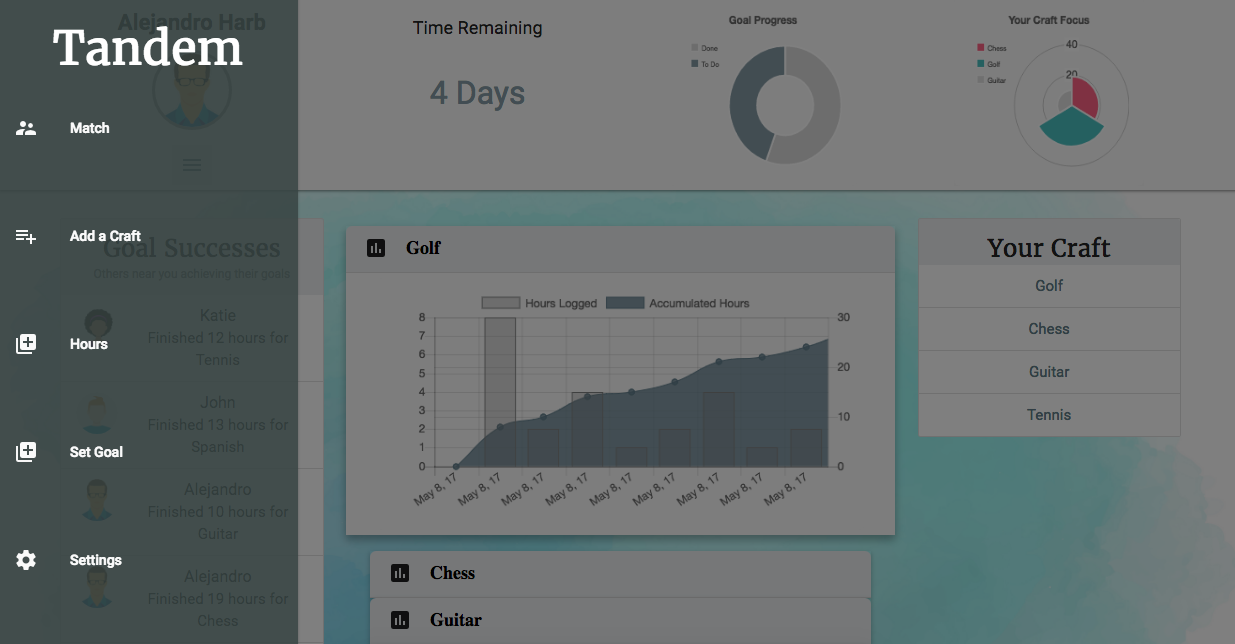
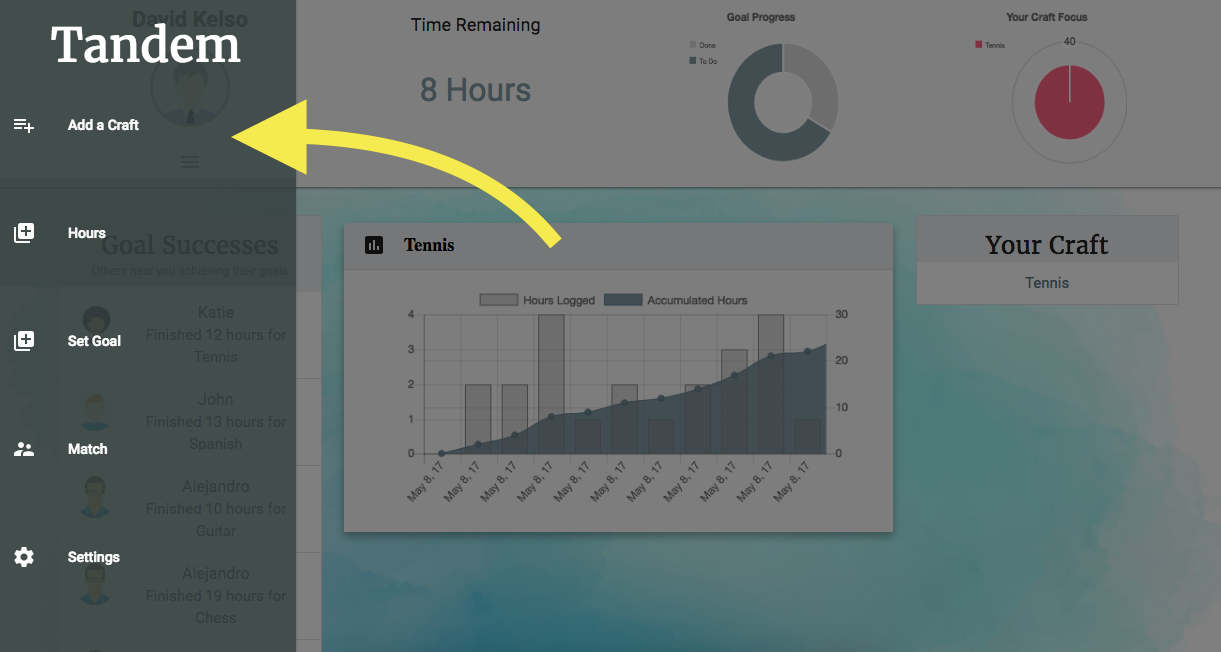
improved instructional UI, set-goal modal UI, and fixed set-craft bug

diff --git a/public/assets/js/controller.js b/public/assets/js/controller.js
@@ -26,17 +26,18 @@ let display_Craft_Add_Modal = (craft) => {
 
 }
 
-let handle_Add_Craft_Submit = (e) => {
+let handle_Add_Craft_Submit = (e, craft) => {
     e.preventDefault();
     //collect data
-    
+
     let years = parseInt($('#YearsExperience').val());
     let rating = parseInt($('input[name="rating"]:checked').val());
-    let craft = $('#craft').val();
+    // let craft = $('#craft').val();
     let clientPostData = {
         year_experience: years,
         experience_rating: rating
     }
+
     let url = '/api/home/choices/' + craft + '/' + user;
     //AJAX POST
     $.post(url, clientPostData, function (response) {
@@ -312,25 +313,49 @@ let create_Goal_Modal = (craft) => {
   });
 }
 
-let set_goal = (e) => {
+let set_goal = (e, craft) => {
   e.preventDefault();
-
+  let now = moment(new Date).format();
+  console.log("right now: " + now);
+  var date;
   let goalDate = moment($('#goalDate').val()).format();
+  let dateRadio = $('input[name="deadline"]:checked').val();
   let goalHours = $('#goalHours').val();
-  let craft = $('#craft').val();
-  let data = {
-    date: goalDate,
-    hours: goalHours,
-    craft: craft
+  let goalCraft = craft;
+  console.log(goalDate + " and radio: " + dateRadio);
+  if(goalDate !== 'Invalid date' || dateRadio !== undefined) {
+    if(dateRadio) {
+      if(dateRadio == '1-day'){
+        date = moment(now).add(1,'days').format();
+        console.log(date);
+      } else {
+        date = moment(now).add(7,'days').format();
+        console.log(date);
+      }
+    }
+    if(goalDate) {
+      date = goalDate;
+    }
+    
+    let data = {
+      date: date,
+      hours: goalHours,
+      craft: goalCraft
+    }
+    console.log(data)
+    //send ajax request to server
+    $.ajax({
+      method: 'PUT',
+      url: '/api/crafts/set-goal/' + craft + '/' + user,
+      data:data
+    }).then( () => {
+      Materialize.toast("Saved", 3000, 'themeToast');
+      displayStats(craft);
+    });
+  } else {
+    alert("Oop! You forgot to enter a deadline.")
   }
-  $.ajax({
-    method: 'PUT',
-    url: '/api/crafts/set-goal/' + craft + '/' + user,
-    data:data
-  }).then( () => {
-    Materialize.toast("Saved", 3000, 'themeToast');
-    displayStats(craft);
-  });
+
 }
 
 // ==== after user chooses avatar -> route to home page ===

diff --git a/controllers/authController.js b/controllers/authController.js
@@ -114,6 +114,9 @@ const authController = {
           console.log(dbUser)
           if(dbUser.dataValues.Crafts.length < 1) {
             userData.newbie = true;
+            userData.displayMenuOptions = false;
+          } else {
+            userData.displayMenuOptions = true;
           }
           //fetching activity data
           craftsController.fetchGoalActivity(dbUser.dataValues.address, function(activityData) {

diff --git a/public/assets/css/main.css b/public/assets/css/main.css
@@ -256,6 +256,16 @@ canvas {
 .instructionalCollapsible .tabs .tab a{
   font-size: 15px;
 }
+.instructional-header{
+  background-color: #ffd54f!important;
+}
+.instructionalCollapsible .tabs .tab a{
+  color: #FFC107;
+}
+.instructionalCollapsible .tabs .tab a:hover, .tabs .tab a.active{
+  background-color: rgba(96, 125, 139, 0.51);
+  color: #ffd54f;
+}
 
 .tight-top-spacing{
     margin-bottom: 0;
